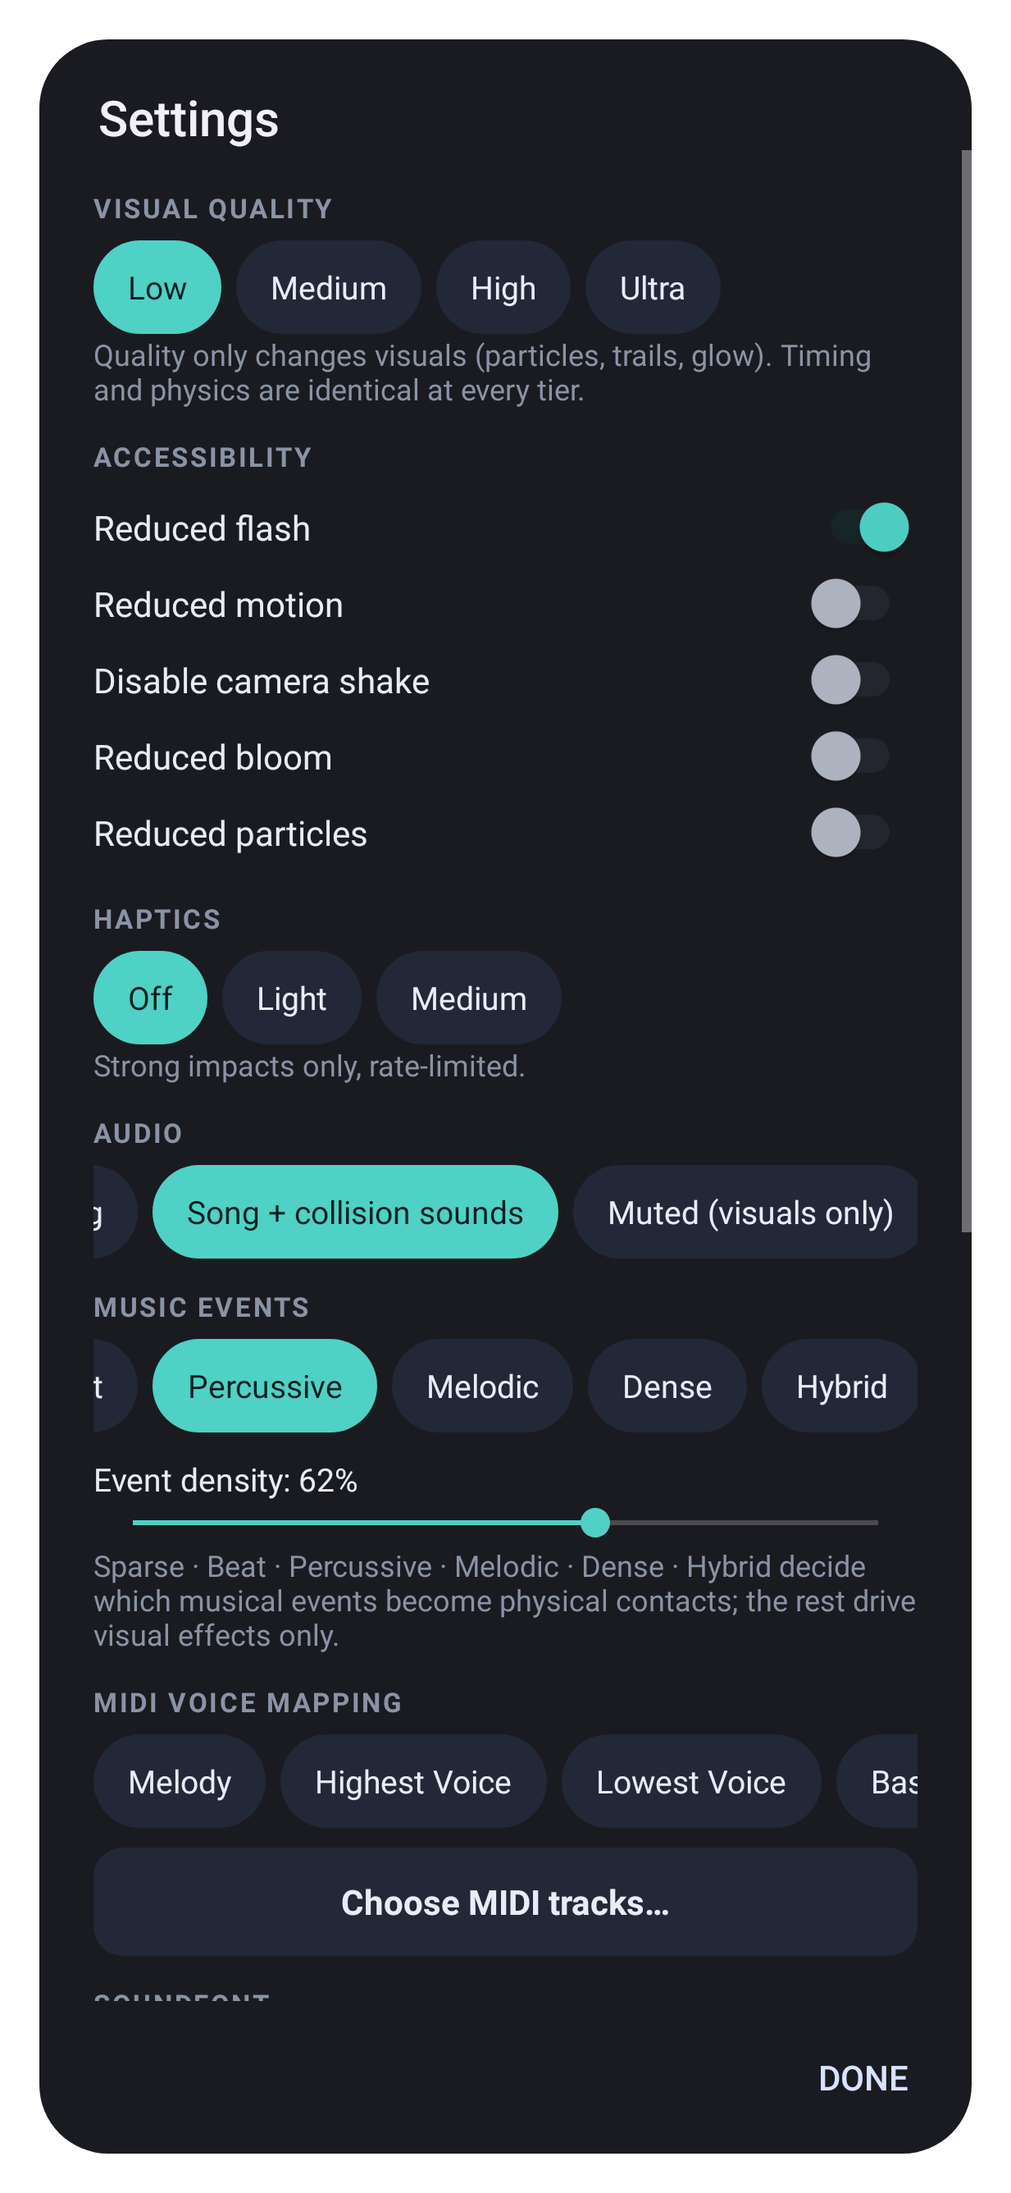
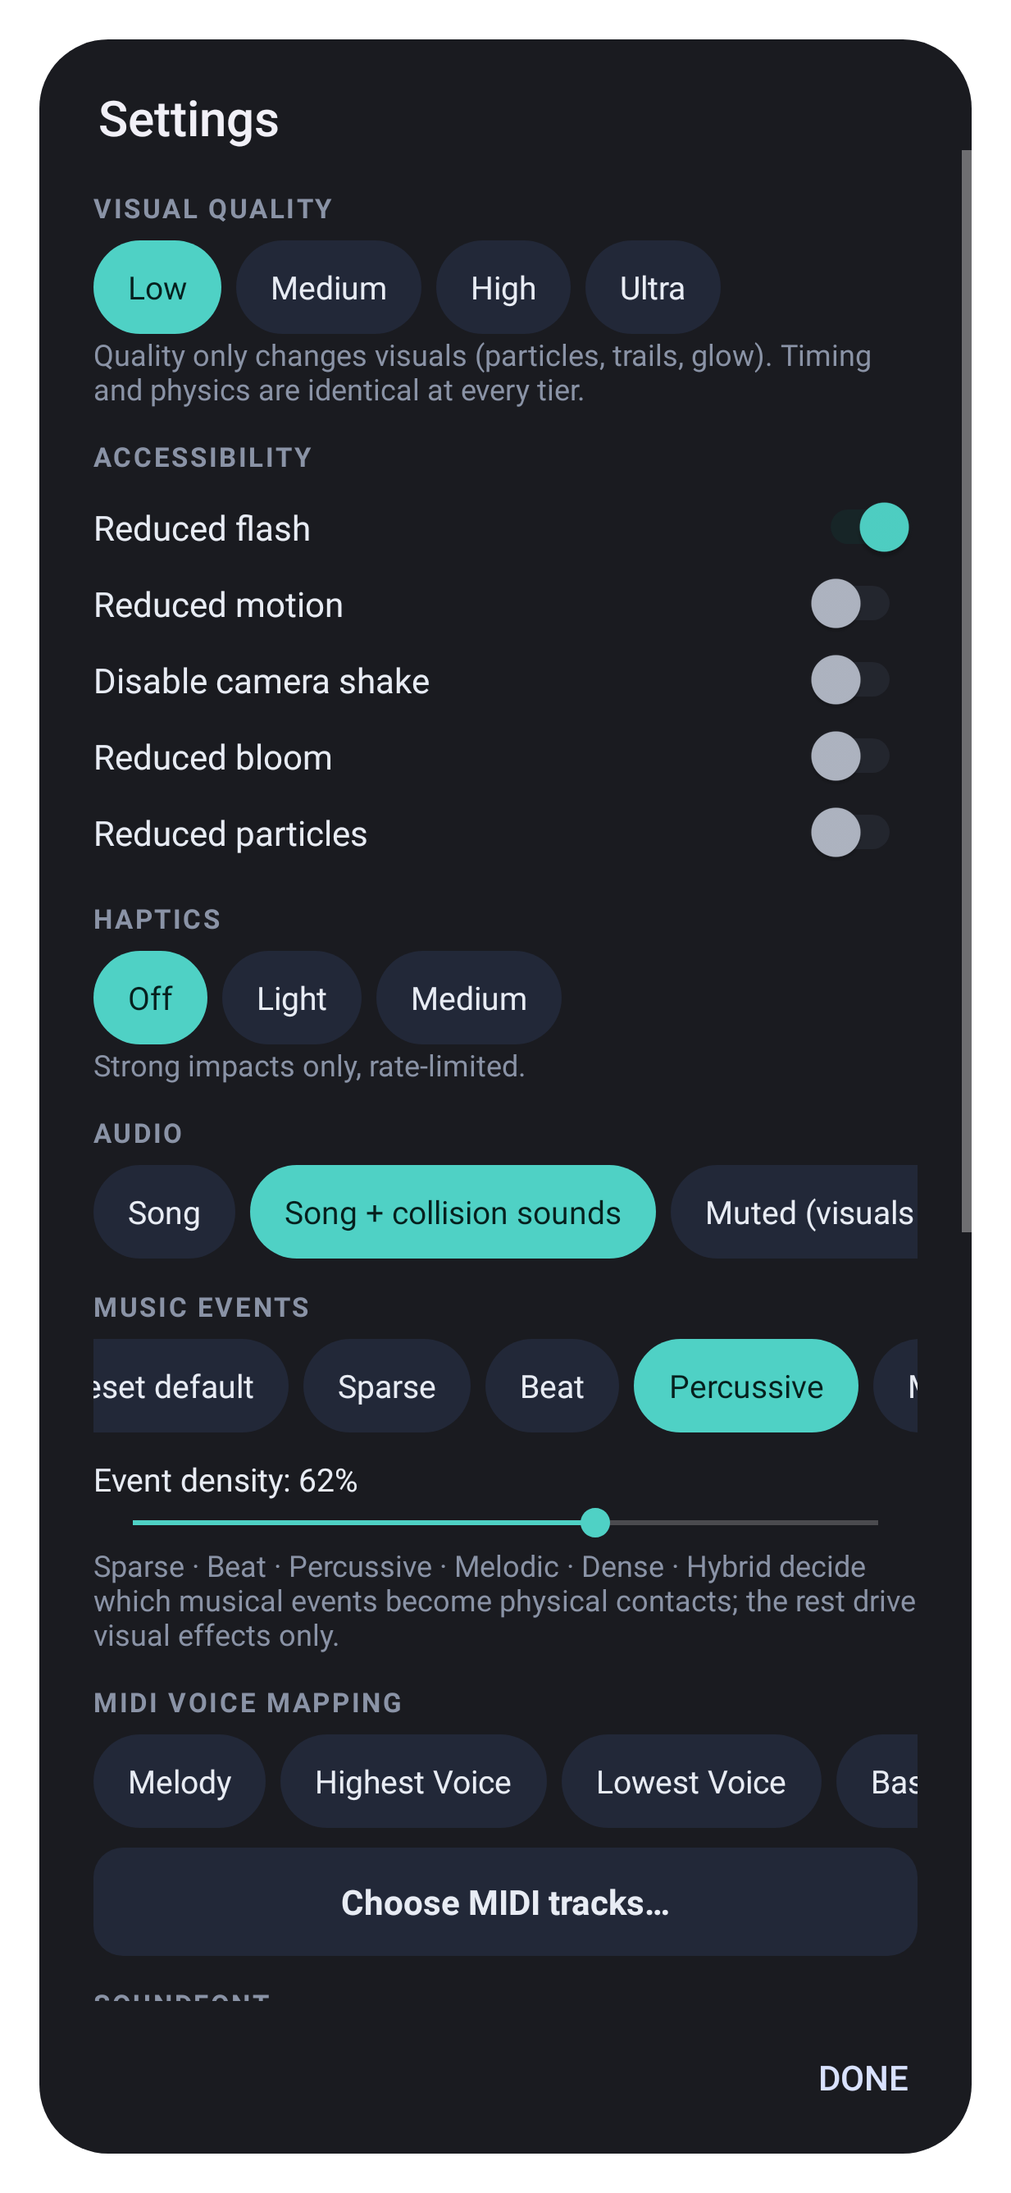
minSdk API gate (fixes ByteBuffer NoSuchMethodError on older Android), more device-less tests
- :app:apiCheck checks app+core against the API 26 framework jar and the JDK ct.sym Java 8
  surface; APK builds fail on unguarded, unreviewed findings
- ByteBuffer position/limit/clear now go through java.nio.Buffer (JDK 9 covariant overrides
  would throw on older ART) in the decoder, exporter and WavWriter
- Robolectric: landscape side panel, content-based import routing, deterministic sandbox
  transport; pure tests for thermal cap and collision-layer notes
- Chip rows keep the selected chip visible without clipping neighbours

Claude-Session: https://claude.ai/code/session_01S3A4w7DDqDnci9S3yTkWee

Changed region(s): [[0.0925, 0.5279, 0.8938, 0.6521], [0.6164, 0.59, 0.8629, 0.6521]]

diff --git a/buildtools/src/main/kotlin/com/rhythmphysics/buildtools/ApiCheck.kt b/buildtools/src/main/kotlin/com/rhythmphysics/buildtools/ApiCheck.kt
@@ -1,0 +1,102 @@
+package com.rhythmphysics.buildtools
+
+import org.objectweb.asm.ClassReader
+import org.objectweb.asm.Type
+import org.objectweb.asm.tree.ClassNode
+import org.objectweb.asm.tree.FieldInsnNode
+import org.objectweb.asm.tree.LdcInsnNode
+import org.objectweb.asm.tree.MethodInsnNode
+import org.objectweb.asm.tree.TypeInsnNode
+import java.io.File
+import java.util.zip.ZipFile
+
+/**
+ * Poor man's lint "NewApi": checks every reference our classes make into platform classes
+ * (android.*, java.*, javax.*, org.json, ...) against the framework jar of the *minimum* API level.
+ * A reference that does not exist there is only safe behind a Build.VERSION.SDK_INT check, so
+ * each finding reports whether the calling method reads SDK_INT (for manual review).
+ */
+object ApiCheck {
+    private class Info(val superName: String?, val interfaces: List<String>, val members: Set<String>)
+
+    class Finding(val caller: String, val ref: String, val guarded: Boolean) {
+        override fun toString() = (if (guarded) "guarded   " else "UNGUARDED ") + "$ref   <- $caller"
+    }
+
+    /**
+     * [apiJar]: framework jar of the min API (android.*, org.json...). [ctSym]: the JDK's ct.sym, whose
+     * release-8 signatures stand in for the java.* surface (android-all jars ship no libcore).
+     */
+    fun run(apiJar: File, inputs: List<File>, ctSym: File? = null): List<Finding> {
+        val api = HashMap<String, Info>()
+        val sources = listOf(apiJar to { n: String -> if (n.endsWith(".class")) n.removeSuffix(".class") else null }) +
+            listOfNotNull(ctSym?.let { it to { n: String ->
+                // "<releases>/<module>/<pkg>/<Cls>.sig", keep entries valid for release 8
+                val parts = n.split('/', limit = 3)
+                if (parts.size == 3 && '8' in parts[0] && n.endsWith(".sig")) parts[2].removeSuffix(".sig") else null
+            } })
+        for ((jar, nameOf) in sources) ZipFile(jar).use { z ->
+            for (e in z.entries()) {
+                nameOf(e.name) ?: continue
+                val cr = ClassReader(z.getInputStream(e).readBytes())
+                val cn = ClassNode(); cr.accept(cn, ClassReader.SKIP_CODE)
+                val members = HashSet<String>()
+                cn.methods.forEach { members += it.name + it.desc }
+                cn.fields.forEach { members += it.name + ":" }
+                api[cn.name] = Info(cn.superName, cn.interfaces, members)
+            }
+        }
+        val platformPrefixes = listOf("android/", "java/", "javax/", "org/json/", "org/xmlpull/", "dalvik/")
+        fun isPlatform(owner: String) = platformPrefixes.any { owner.startsWith(it) }
+
+        fun has(owner: String, member: String, seen: HashSet<String> = HashSet()): Boolean {
+            if (!seen.add(owner)) return false
+            val info = api[owner] ?: return false
+            if (member in info.members) return true
+            info.superName?.let { if (has(it, member, seen)) return true }
+            return info.interfaces.any { has(it, member, seen) }
+        }
+
+        val findings = ArrayList<Finding>()
+        val classes = ArrayList<ByteArray>()
+        for (f in inputs) {
+            if (f.isDirectory) f.walkTopDown().filter { it.name.endsWith(".class") }.forEach { classes += it.readBytes() }
+            else if (f.name.endsWith(".jar")) ZipFile(f).use { z -> for (e in z.entries()) if (e.name.endsWith(".class") && !e.name.startsWith("META-INF/")) classes += z.getInputStream(e).readBytes() }
+        }
+        for (bytes in classes) {
+            val cn = ClassNode(); ClassReader(bytes).accept(cn, 0)
+            // Our own classes extending platform types: the superclass must exist.
+            listOfNotNull(cn.superName).plus(cn.interfaces).filter(::isPlatform).forEach { t ->
+                if (t !in api) findings += Finding(cn.name, "class $t", false)
+            }
+            for (m in cn.methods) {
+                val guarded = m.instructions.any { it is FieldInsnNode && it.owner == "android/os/Build\$VERSION" && it.name == "SDK_INT" }
+                val caller = "${cn.name}.${m.name}"
+                for (insn in m.instructions) {
+                    when (insn) {
+                        is MethodInsnNode -> {
+                            val owner = if (insn.owner.startsWith("[")) "java/lang/Object" else insn.owner
+                            if (!isPlatform(owner)) continue
+                            if (owner !in api) findings += Finding(caller, "class $owner", guarded)
+                            else if (!has(owner, insn.name + insn.desc)) findings += Finding(caller, "$owner.${insn.name}${insn.desc}", guarded)
+                        }
+                        is FieldInsnNode -> {
+                            if (!isPlatform(insn.owner)) continue
+                            if (insn.owner !in api) findings += Finding(caller, "class ${insn.owner}", guarded)
+                            else if (!has(insn.owner, insn.name + ":")) findings += Finding(caller, "${insn.owner}.${insn.name}", guarded)
+                        }
+                        is TypeInsnNode -> {
+                            val t = Type.getObjectType(insn.desc).let { if (it.sort == Type.ARRAY) it.elementType else it }
+                            if (t.sort == Type.OBJECT && isPlatform(t.internalName) && t.internalName !in api) findings += Finding(caller, "class ${t.internalName}", guarded)
+                        }
+                        is LdcInsnNode -> {
+                            val c = insn.cst
+                            if (c is Type && c.sort == Type.OBJECT && isPlatform(c.internalName) && c.internalName !in api) findings += Finding(caller, "class ${c.internalName}", guarded)
+                        }
+                    }
+                }
+            }
+        }
+        return findings.distinctBy { it.caller + it.ref }
+    }
+}

diff --git a/app/src/roboTest/kotlin/com/rhythmphysics/app/AppFlowTest.kt b/app/src/roboTest/kotlin/com/rhythmphysics/app/AppFlowTest.kt
@@ -206,17 +206,13 @@ class AppFlowTest {
         save(capture(eroot), "screenshots/android/export_dialog.png")
         export.dismiss(); shadowOf(Looper.getMainLooper()).idle()
 
-        // Transport: play toggles state (AudioTrack is simulated by Robolectric).
+        // Transport with the song clock. Robolectric's AudioTrack consumes PCM instantly, so playback
+        // may "complete" before we look: either it is playing, or it completed into a clean paused
+        // state at the end with the Play button restored. (Deterministic transport: sandbox test.)
         clickDesc(root, "Play")
-        assertTrue(cs.clock.isPlaying)
-        clickDesc(root, "Pause")
-        assertFalse(cs.clock.isPlaying)
-        // Robolectric's AudioTrack consumes PCM instantly, so the song "completes" at once: the
-        // completion path must land in a clean paused state with the Play button restored.
-        clickDesc(root, "Play")
-        waitUntil(20_000, "completion or still playing") { !cs.clock.isPlaying || findByDescription(root, "Pause") != null }
         if (cs.clock.isPlaying) clickDesc(root, "Pause")
-        RoboSupport.idle(200)
+        waitUntil(20_000, "paused") { !cs.clock.isPlaying }
+        RoboSupport.idle(100)
         assertFalse(cs.clock.isPlaying)
         assertNotNull(findByDescription(root, "Play"))
 
@@ -254,6 +250,56 @@ class AppFlowTest {
         assertEquals(MechanicType.CIRCLE, cs.scene.focus)
         assertEquals("circle.sandbox", cs.presetIdFor(MechanicType.CIRCLE))
         assertNull("no mechanic selector in the sandbox", findText(act.window.decorView, "Arch"))
+        // Transport on the free-running sandbox clock: play advances time, pause freezes it.
+        val root = act.window.decorView
+        clickDesc(root, "Play")
+        assertTrue(cs.clock.isPlaying)
+        RoboSupport.idle(300)
+        val t1 = cs.position()
+        assertTrue("clock advances while playing ($t1)", t1 > 0.1)
+        clickDesc(root, "Pause")
+        assertFalse(cs.clock.isPlaying)
+        val t2 = cs.position()
+        RoboSupport.idle(200)
+        assertEquals(t2, cs.position(), 1e-9)
+        clickDesc(root, "Restart")
+        assertEquals(0.0, cs.position(), 1e-9)
         captureCreator(act, cs, 0.5, "screenshots/android/creator_sandbox.png")
+    }
+
+    @Test
+    fun importedFilesAreRoutedByContentNotName() {
+        val app = org.robolectric.RuntimeEnvironment.getApplication() as RhythmApp
+        val dir = app.cacheDir
+        // A real MIDI file named .mp3 is still loaded as MIDI (rendered with the bundled SoundFont).
+        val disguised = java.io.File(dir, "song.mp3").apply { writeBytes(com.rhythmphysics.core.midi.DemoSong.bytes()) }
+        val ls = app.loader.load(android.net.Uri.fromFile(disguised), { _, _ -> }, { false })
+        assertEquals(MediaType.MIDI, ls.session.mediaType)
+        assertTrue(ls.pcm!!.length() > 1_000_000)
+        // An MP3 (ID3 header) named .mid must never be parsed as MIDI.
+        val fakeMidi = java.io.File(dir, "track.mid").apply { writeBytes("ID3\u0004\u0000\u0000\u0000\u0000\u0000\u0000".toByteArray(Charsets.ISO_8859_1) + ByteArray(2048)) }
+        val err = runCatching { app.loader.load(android.net.Uri.fromFile(fakeMidi), { _, _ -> }, { false }) }.exceptionOrNull()
+        assertNotNull("an MP3 named .mid must not load as MIDI", err)
+        assertFalse("error must come from the audio path, not the MIDI parser: $err", err is com.rhythmphysics.core.midi.MidiFormatException)
+        // A .mid name without an MThd header gets a clear message.
+        val junk = java.io.File(dir, "broken.mid").apply { writeBytes("not midi at all".toByteArray()) }
+        val msg = runCatching { app.loader.load(android.net.Uri.fromFile(junk), { _, _ -> }, { false }) }.exceptionOrNull()?.message ?: ""
+        assertTrue(msg, msg.contains("MIDI header"))
+    }
+
+    @Test
+    @Config(qualifiers = "w891dp-h411dp-land-xxhdpi")
+    fun landscapeCreatorUsesSidePanel() {
+        val act = Robolectric.buildActivity(MainActivity::class.java).setup().get()
+        click(act.window.decorView, "Demo song")
+        waitUntil(180_000, "demo") { act.creatorScreen?.engineReady == true }
+        val cs = act.creatorScreen!!
+        click(act.window.decorView, "16:9"); waitReady(cs, "16:9")
+        cs.seekTo(21.0)
+        val vis = cs.visualizer
+        assertTrue("visualizer is left of the panel in landscape", vis.width > vis.height)
+        captureCreator(act, cs, 21.0, "screenshots/android/creator_square_landscape.png")
+        click(act.window.decorView, "Arch"); waitReady(cs, "arch")
+        captureCreator(act, cs, 21.0, "screenshots/android/creator_arch_landscape.png")
     }
 }

diff --git a/app/src/main/kotlin/com/rhythmphysics/app/export/VideoExporter.kt b/app/src/main/kotlin/com/rhythmphysics/app/export/VideoExporter.kt
@@ -1,5 +1,8 @@
 package com.rhythmphysics.app.export
 
+import com.rhythmphysics.core.util.clearCompat
+import com.rhythmphysics.core.util.setLimit
+import com.rhythmphysics.core.util.setPosition
 import android.media.MediaCodec
 import android.media.MediaCodecInfo
 import android.media.MediaCodecList
@@ -137,7 +140,7 @@ class VideoExporter(
                             if (info.size > 0 && muxerStarted) {
                                 // Timestamps come from the frame index, not wall-clock encode time.
                                 info.presentationTimeUs = settings.ptsForFrame(written++)
-                                buf.position(info.offset); buf.limit(info.offset + info.size)
+                                buf.setPosition(info.offset); buf.setLimit(info.offset + info.size)
                                 muxer.writeSampleData(videoTrack, buf, info)
                                 writeAudioUpTo(info.presentationTimeUs)
                             }
@@ -260,7 +263,7 @@ class VideoExporter(
                                 bb.putShort((l * 32767).toInt().toShort()); bb.putShort((r * 32767).toInt().toShort())
                             }
                             val ib = enc.getInputBuffer(idx)!!
-                            ib.clear(); ib.put(pcmOut, 0, n * 4)
+                            ib.clearCompat(); ib.put(pcmOut, 0, n * 4)
                             enc.queueInputBuffer(idx, 0, n * 4, fed * 1_000_000L / sr, 0)
                             fed += n
                             if (fed % (sr * 5L) < block) progress("Encoding audio", fed.toDouble() / totalFrames)
@@ -274,7 +277,7 @@ class VideoExporter(
                         val buf = enc.getOutputBuffer(o)!!
                         if (info.size > 0 && info.flags and MediaCodec.BUFFER_FLAG_CODEC_CONFIG == 0) {
                             val bytes = ByteArray(info.size)
-                            buf.position(info.offset); buf.get(bytes)
+                            buf.setPosition(info.offset); buf.get(bytes)
                             outSamples += Encoded(bytes, info.presentationTimeUs, info.flags and MediaCodec.BUFFER_FLAG_KEY_FRAME)
                         }
                         enc.releaseOutputBuffer(o, false)

diff --git a/buildtools/src/main/kotlin/com/rhythmphysics/buildtools/Main.kt b/buildtools/src/main/kotlin/com/rhythmphysics/buildtools/Main.kt
@@ -36,6 +36,20 @@ fun main(args: Array<String>) {
             ApkPackager.sign(File(args[1]), File(args[2]), File(args[3]), args[4], args[5], args[6])
             println("sign: ${File(args[2]).length()} bytes")
         }
+        "api-check" -> {
+            // api-check <min-api framework jar> <report file> <allowlist> <classes dir|jar>...
+            // java.* is checked against the JDK's ct.sym (release 8); android.* against the min-API jar.
+            val ctSym = File(System.getProperty("java.home"), "lib/ct.sym").takeIf { it.exists() }
+            val findings = ApiCheck.run(File(args[1]), args.drop(4).map(::File), ctSym)
+            val report = File(args[2]); report.parentFile?.mkdirs()
+            report.writeText("# :app:apiCheck — references missing on minSdk; 'guarded' = caller reads Build.VERSION.SDK_INT\n" +
+                findings.joinToString("\n", postfix = "\n") { it.toString() })
+            val allowed = File(args[3]).takeIf { it.exists() }?.readLines()?.map { it.substringBefore('#').trim() }?.filter { it.isNotEmpty() }?.toSet() ?: emptySet()
+            val bad = findings.filter { !it.guarded && "${it.ref.removePrefix("class ")} <- ${it.caller}" !in allowed }
+            println("api-check: ${findings.size} references newer than min API, ${bad.size} unguarded and not allow-listed -> $report")
+            bad.forEach { println("  $it") }
+            if (bad.isNotEmpty()) { System.err.println("api-check FAILED"); kotlin.system.exitProcess(1) }
+        }
         "scan-indy" -> {
             var bad = 0
             args.drop(1).forEach { path ->

diff --git a/app/src/test/kotlin/com/rhythmphysics/app/PureLogicTest.kt b/app/src/test/kotlin/com/rhythmphysics/app/PureLogicTest.kt
@@ -52,4 +52,25 @@ class PureLogicTest {
         assertEquals(1_000_000L, ex.ptsForFrame(30))
         assertTrue(ex.bitrate() in 2_000_000..24_000_000)
     }
+
+    @Test
+    fun thermalCapOnlyLowersQuality() {
+        val q = com.rhythmphysics.core.render.Quality.values()
+        assertEquals(null, com.rhythmphysics.app.platform.ThermalMonitor.capFor(0))
+        assertEquals(null, com.rhythmphysics.app.platform.ThermalMonitor.capFor(1))
+        for (user in q) {
+            assertEquals(user, com.rhythmphysics.app.platform.ThermalMonitor.apply(user, null))
+            val moderate = com.rhythmphysics.app.platform.ThermalMonitor.apply(user, com.rhythmphysics.app.platform.ThermalMonitor.capFor(2))
+            assertTrue(moderate.ordinal <= minOf(user.ordinal, com.rhythmphysics.core.render.Quality.MEDIUM.ordinal))
+            assertEquals(minOf(user.ordinal, 0), com.rhythmphysics.app.platform.ThermalMonitor.apply(user, com.rhythmphysics.app.platform.ThermalMonitor.capFor(4)).ordinal)
+        }
+    }
+
+    @Test
+    fun collisionLayerNotes() {
+        val cl = com.rhythmphysics.app.audio.CollisionLayer
+        assertEquals(64, cl.noteFor(3, 64), "MIDI events keep their own pitch")
+        for (id in listOf(-7L, 0L, 1L, 4L, 123456789L)) assertTrue(cl.noteFor(id, null) in 72..80)
+        assertTrue(cl.velocityFor(0f) > 0.1f && cl.velocityFor(1f) <= 1f && cl.velocityFor(1f) > cl.velocityFor(0.2f))
+    }
 }

diff --git a/app/src/main/kotlin/com/rhythmphysics/app/audio/AudioDecoder.kt b/app/src/main/kotlin/com/rhythmphysics/app/audio/AudioDecoder.kt
@@ -1,5 +1,8 @@
 package com.rhythmphysics.app.audio
 
+import com.rhythmphysics.core.util.clearCompat
+import com.rhythmphysics.core.util.setLimit
+import com.rhythmphysics.core.util.setPosition
 import android.content.Context
 import android.media.AudioFormat
 import android.media.MediaCodec
@@ -95,7 +98,7 @@ class AudioDecoder(private val context: Context) {
                         if (info.size > 0) {
                             ensureWriter()
                             val out = c.getOutputBuffer(outIdx)!!
-                            out.position(info.offset); out.limit(info.offset + info.size)
+                            out.setPosition(info.offset); out.setLimit(info.offset + info.size)
                             out.order(ByteOrder.LITTLE_ENDIAN)
                             val bytesPerSample = if (floatPcm) 4 else 2
                             val frames = info.size / (bytesPerSample * channels)

diff --git a/app/src/main/kotlin/com/rhythmphysics/app/ui/Ui.kt b/app/src/main/kotlin/com/rhythmphysics/app/ui/Ui.kt
@@ -170,7 +170,14 @@ class ChipRow<T>(private val c: Context, items: List<Pair<String, T>>, selected:
         }
         // Keep the selected chip visible (long rows scroll horizontally).
         chips.firstOrNull { it.second == value }?.first?.let { tv ->
-            view.post { (view as HorizontalScrollView).scrollTo((tv.left - Ui.dp(c, 24)).coerceAtLeast(0), 0) }
+            view.post {
+                val sv = view as HorizontalScrollView
+                val m = Ui.dp(c, 24)
+                when {
+                    tv.left < sv.scrollX -> sv.scrollTo((tv.left - m).coerceAtLeast(0), 0)
+                    tv.right > sv.scrollX + sv.width -> sv.scrollTo(tv.right + m - sv.width, 0)
+                }
+            }
         }
     }
 

diff --git a/core/src/main/kotlin/com/rhythmphysics/core/audio/Wav.kt b/core/src/main/kotlin/com/rhythmphysics/core/audio/Wav.kt
@@ -1,5 +1,6 @@
 package com.rhythmphysics.core.audio
 
+import com.rhythmphysics.core.util.clearCompat
 import java.io.File
 import java.io.InputStream
 import java.io.RandomAccessFile
@@ -23,7 +24,7 @@ class WavWriter(file: File, val sampleRate: Int, val channels: Int = 2) : AutoCl
     fun write(left: FloatArray, right: FloatArray?, frames: Int) {
         var i = 0
         while (i < frames) {
-            buf.clear()
+            buf.clearCompat()
             val n = minOf(frames - i, buf.capacity() / (2 * channels))
             for (k in 0 until n) {
                 buf.putShort(toPcm(left[i + k]))

diff --git a/core/src/main/kotlin/com/rhythmphysics/core/util/BufferCompat.kt b/core/src/main/kotlin/com/rhythmphysics/core/util/BufferCompat.kt
@@ -1,0 +1,13 @@
+package com.rhythmphysics.core.util
+
+import java.nio.Buffer
+
+/**
+ * JDK 9+ added covariant overrides (ByteBuffer.position(int) returning ByteBuffer, ...). Code
+ * compiled against a newer JDK binds to those and throws NoSuchMethodError on older Android
+ * runtimes, so every position/limit/clear goes through the [Buffer] base type (checked by
+ * `:app:apiCheck`).
+ */
+fun Buffer.setPosition(p: Int) { position(p) }
+fun Buffer.setLimit(l: Int) { limit(l) }
+fun Buffer.clearCompat() { clear() }
